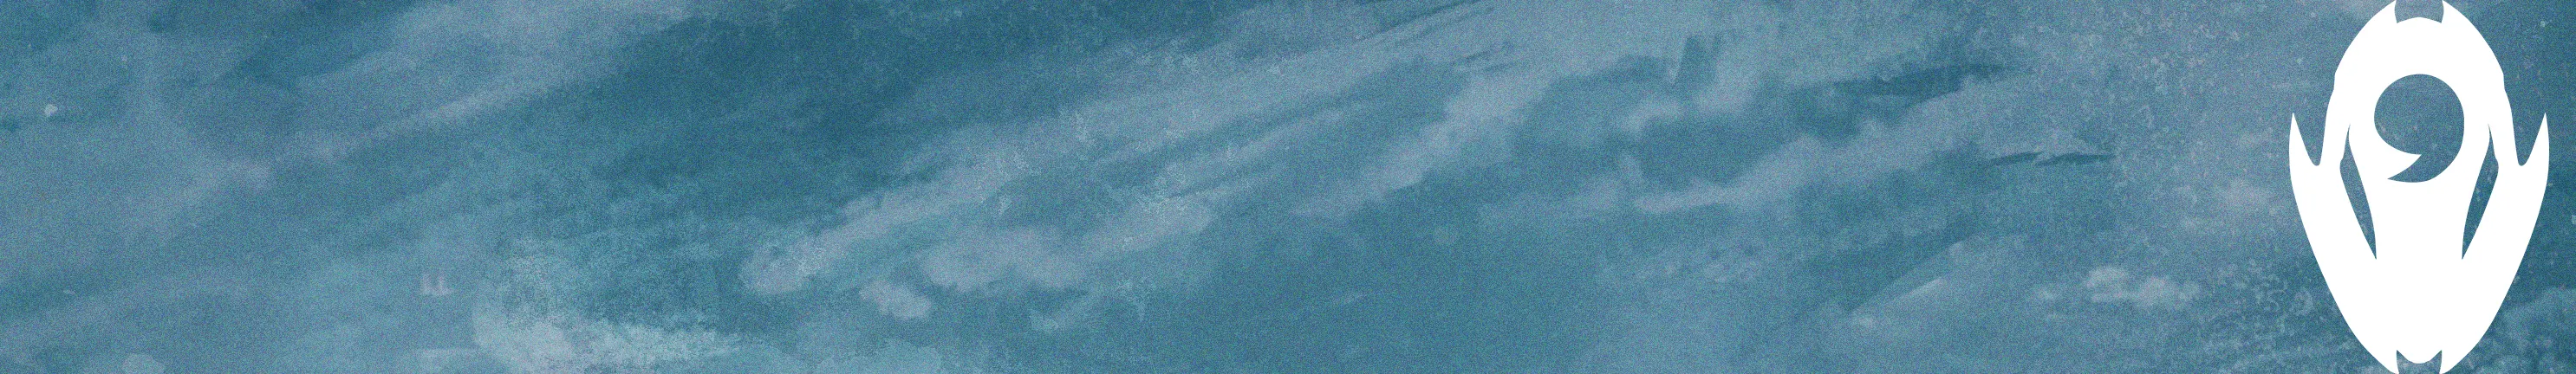
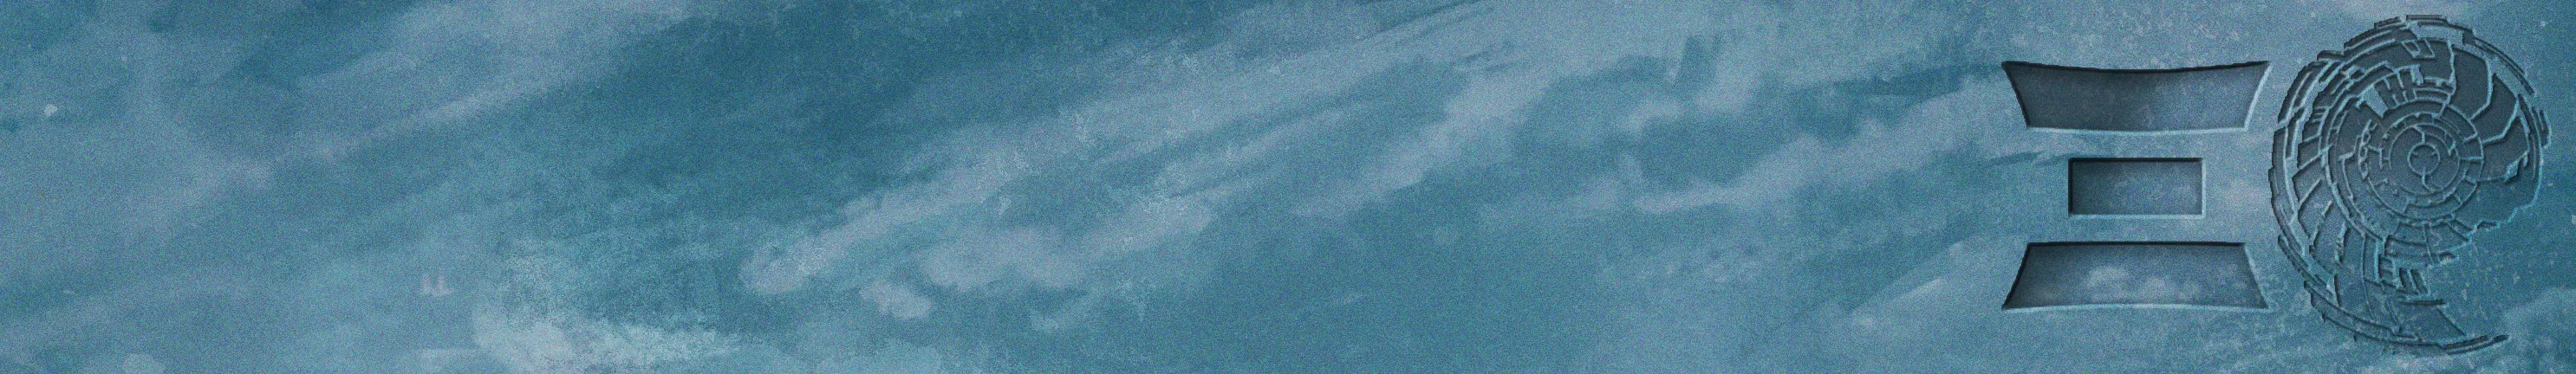
Updating Schedule

Changed region(s): [[0.7739, 0.0, 0.9906, 1.0]]

diff --git a/schedule/index.html b/schedule/index.html
@@ -62,7 +62,7 @@
 							<th>2023-08-10T16:10:00Z</th>
 							<td colspan="1" rowspan="1" class="asabove">
 								<h3>As Above, So Below: Mask of Light 20 Years Ago</h3>
-								<p>A music video created by Ozkabot featuring special musical guests and more.</p>
+								<p>A music video featuring a collaboration between Essenger and Cryoshell, created by Ozkabot.</p>
 								<h4>(5m)</h4>
 							</td>
 						</tr>
@@ -344,7 +344,7 @@
 							<td colspan="1" rowspan="12" class="ide">
 								<h3>Ide's Journey: Act 2, Disc 1</h3>
 								<p>Take on the role of the Matoran Ide, and continue to embark on a musical journey though a post-reformation Spherus Magna. Featuring an opening animation and the first half of Act II.</p>
-								<h4>(~1h)</h4>
+								<h4>(1h)</h4>
 							</td>
 						</tr>
 						<tr>
@@ -386,7 +386,7 @@
 							<td colspan="1" rowspan="12" class="break">
 								<h3>Intermission #1</h3>
 								<p><em>BIONICLE #12: Absolute Power</em><br /><br />"Defeat of the Bohrok-Kal"<br /><br /><em>Wall of History:</em> The Bohrok-Kal Strike<br /><br /><em>BIONICLE: The Game</em> cutscenes<br /><br />Mask of Light Modern Trailer (RePinched and Remastered)<br /><br />810NICLE Day 2019 Rewind: Quest for the Masks Live highlight reel<br /><br />810NICLE Day 2020 Rewind: Gathered Friends The Last Ryde highlight reel</p>
-								<h4>(56m)</h4>
+								<h4>(1h)</h4>
 							</td>
 						</tr>
 						<tr>
@@ -689,7 +689,7 @@
 							<td colspan="1" rowspan="1" class="elliot">
 								<h3>BIONICLE 5</h3>
 								<p>A short stop motion video created by Elliot O'Dell.</p>
-								<h4>(1m)</h4>							
+								<h4>(1m)</h4>
 							</td>
 						</tr>
 						<tr>
@@ -804,10 +804,10 @@
 						</tr>
 						<tr>
 							<th>2023-08-11T20:30:00Z</th>
-							<td colspan="1" rowspan="21" class="btgs">
+							<td colspan="1" rowspan="23" class="btgs">
 								<h3>BIONICLE: THE GAME (SHOW)</h3>
 								<p>The world’s most challenging BIONICLE game show returns for another year! And this year, Bitil the Makuta becomes a father, and Tahu Nuva becomes lunch.</p>
-								<h4>(1h45m)</h4>
+								<h4>(1h55m)</h4>
 							</td>
 						</tr>
 						<tr>
@@ -874,6 +874,12 @@
 						</tr>
 						<tr>
 							<th>2023-08-11T22:15:00Z</th>
+						</tr>
+						<tr>
+							<th>2023-08-11T22:20:00Z</th>
+						</tr>
+						<tr>
+							<th>2023-08-11T22:25:00Z</th>
 							<td colspan="1" rowspan="3" class="break2">
 								<h3>Break #4</h3>
 								<p><em>BIONICLE: The Game</em> cutscenes; <em>BIONICLE #15: Secrets and Shadows</em>.</p>
@@ -881,35 +887,29 @@
 							</td>
 						</tr>
 						<tr>
-							<th>2023-08-11T22:20:00Z</th>
-						</tr>
-						<tr>
-							<th>2023-08-11T22:25:00Z</th>
-						</tr>
-						<tr>
 							<th>2023-08-11T22:30:00Z</th>
-							<td colspan="1" rowspan="3" class="bc">
-								<h3>Biological Chronicle Update</h3>
-								<p>Wynn of Cross-Wired Geeks returns after an 18 month hiatus and goes over the newest update to the BIONICLE story compilation project Biological Chronicle.</p>
-								<h4>(15m)</h4>
-							</td>
 						</tr>
 						<tr>
 							<th>2023-08-11T22:35:00Z</th>
 						</tr>
 						<tr>
 							<th>2023-08-11T22:40:00Z</th>
-						</tr>
-						<tr>
-							<th>2023-08-11T22:45:00Z</th>
-							<td colspan="1" rowspan="3" class="marketing">
-								<h3>The Mad Genius of BIONICLE's Marketing</h3>
-								<p>A short, occasionally funny video essay looking at the history of LEGO's marketing for the BIONICLE franchise.</p>
-								<h4>(15m)</h4>
+							<td colspan="1" rowspan="2" class="bc">
+								<h3>Biological Chronicle Update</h3>
+								<p>Wynn of Cross-Wired Geeks returns after an 18 month hiatus and goes over the newest update to the BIONICLE story compilation project Biological Chronicle.</p>
+								<h4>(10m)</h4>
 							</td>
 						</tr>
 						<tr>
+							<th>2023-08-11T22:45:00Z</th>
+						</tr>
+						<tr>
 							<th>2023-08-11T22:50:00Z</th>
+							<td colspan="1" rowspan="2" class="marketing">
+								<h3>The Mad Genius of BIONICLE's Marketing</h3>
+								<p>A short, occasionally funny video essay looking at the history of LEGO's marketing for the BIONICLE franchise.</p>
+								<h4>(10m)</h4>
+							</td>
 						</tr>
 						<tr>
 							<th>2023-08-11T22:55:00Z</th>